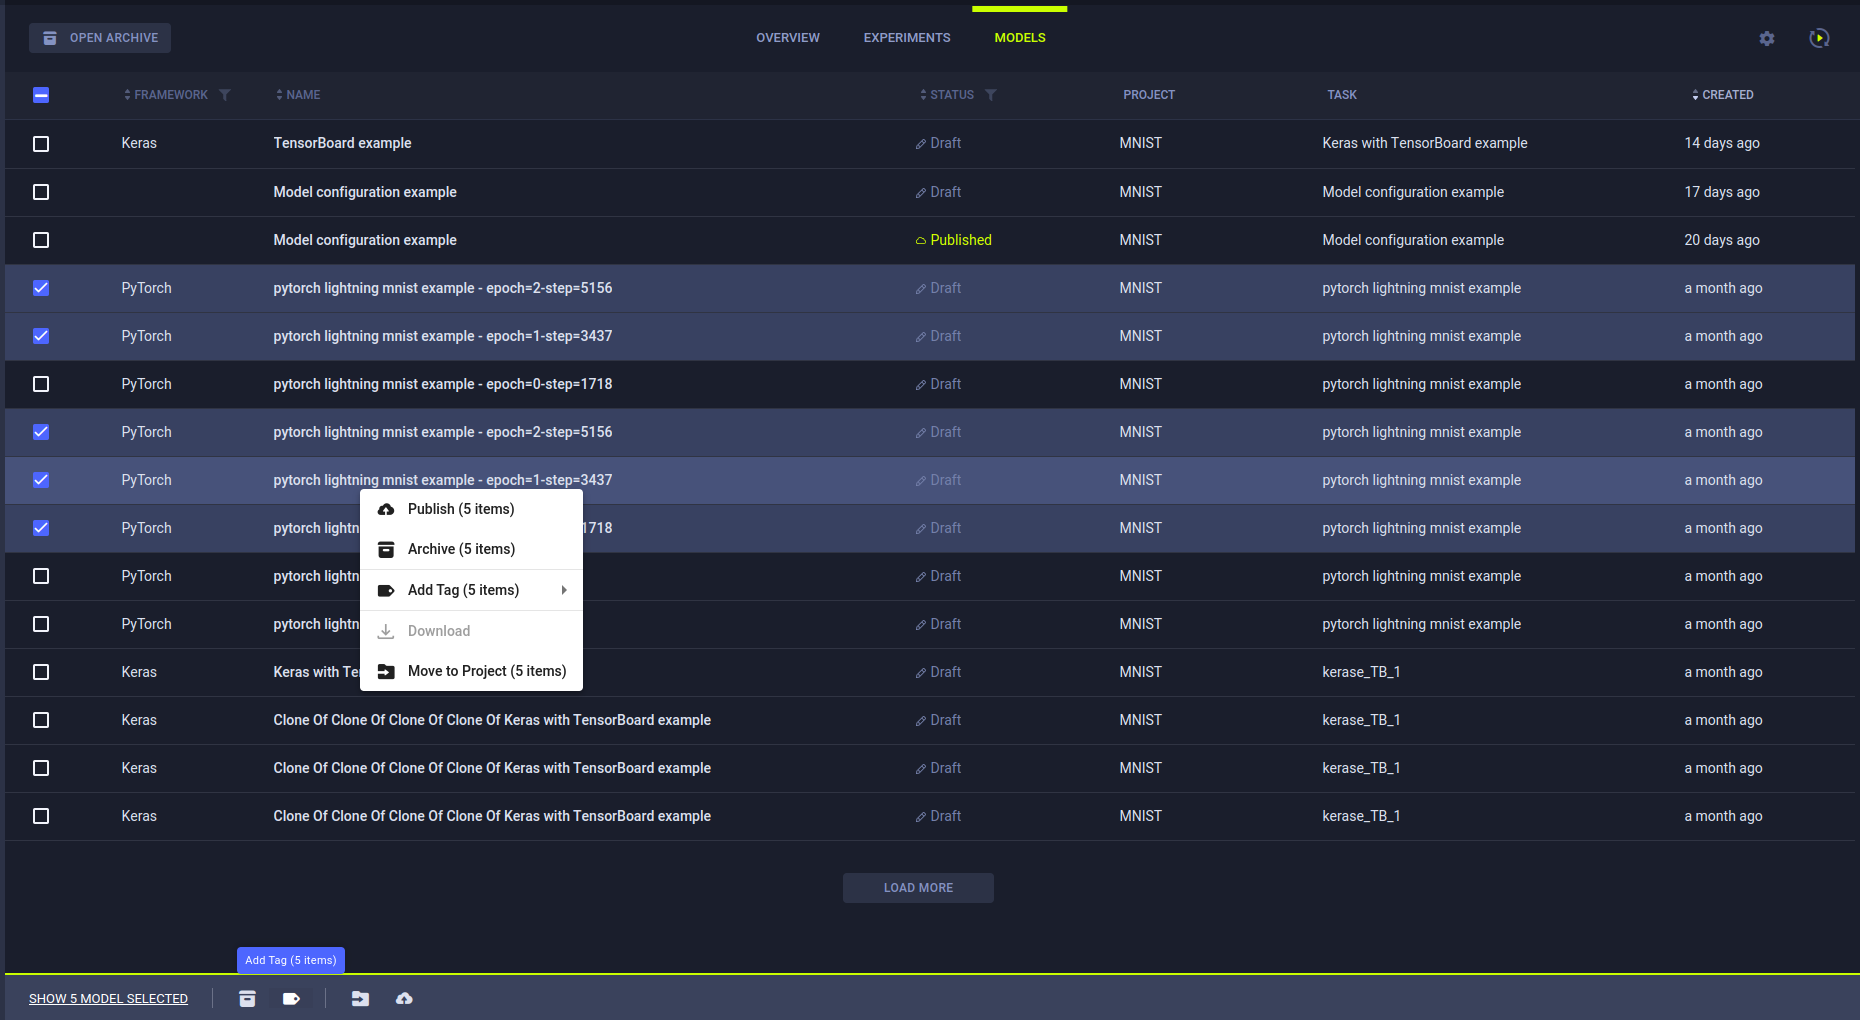
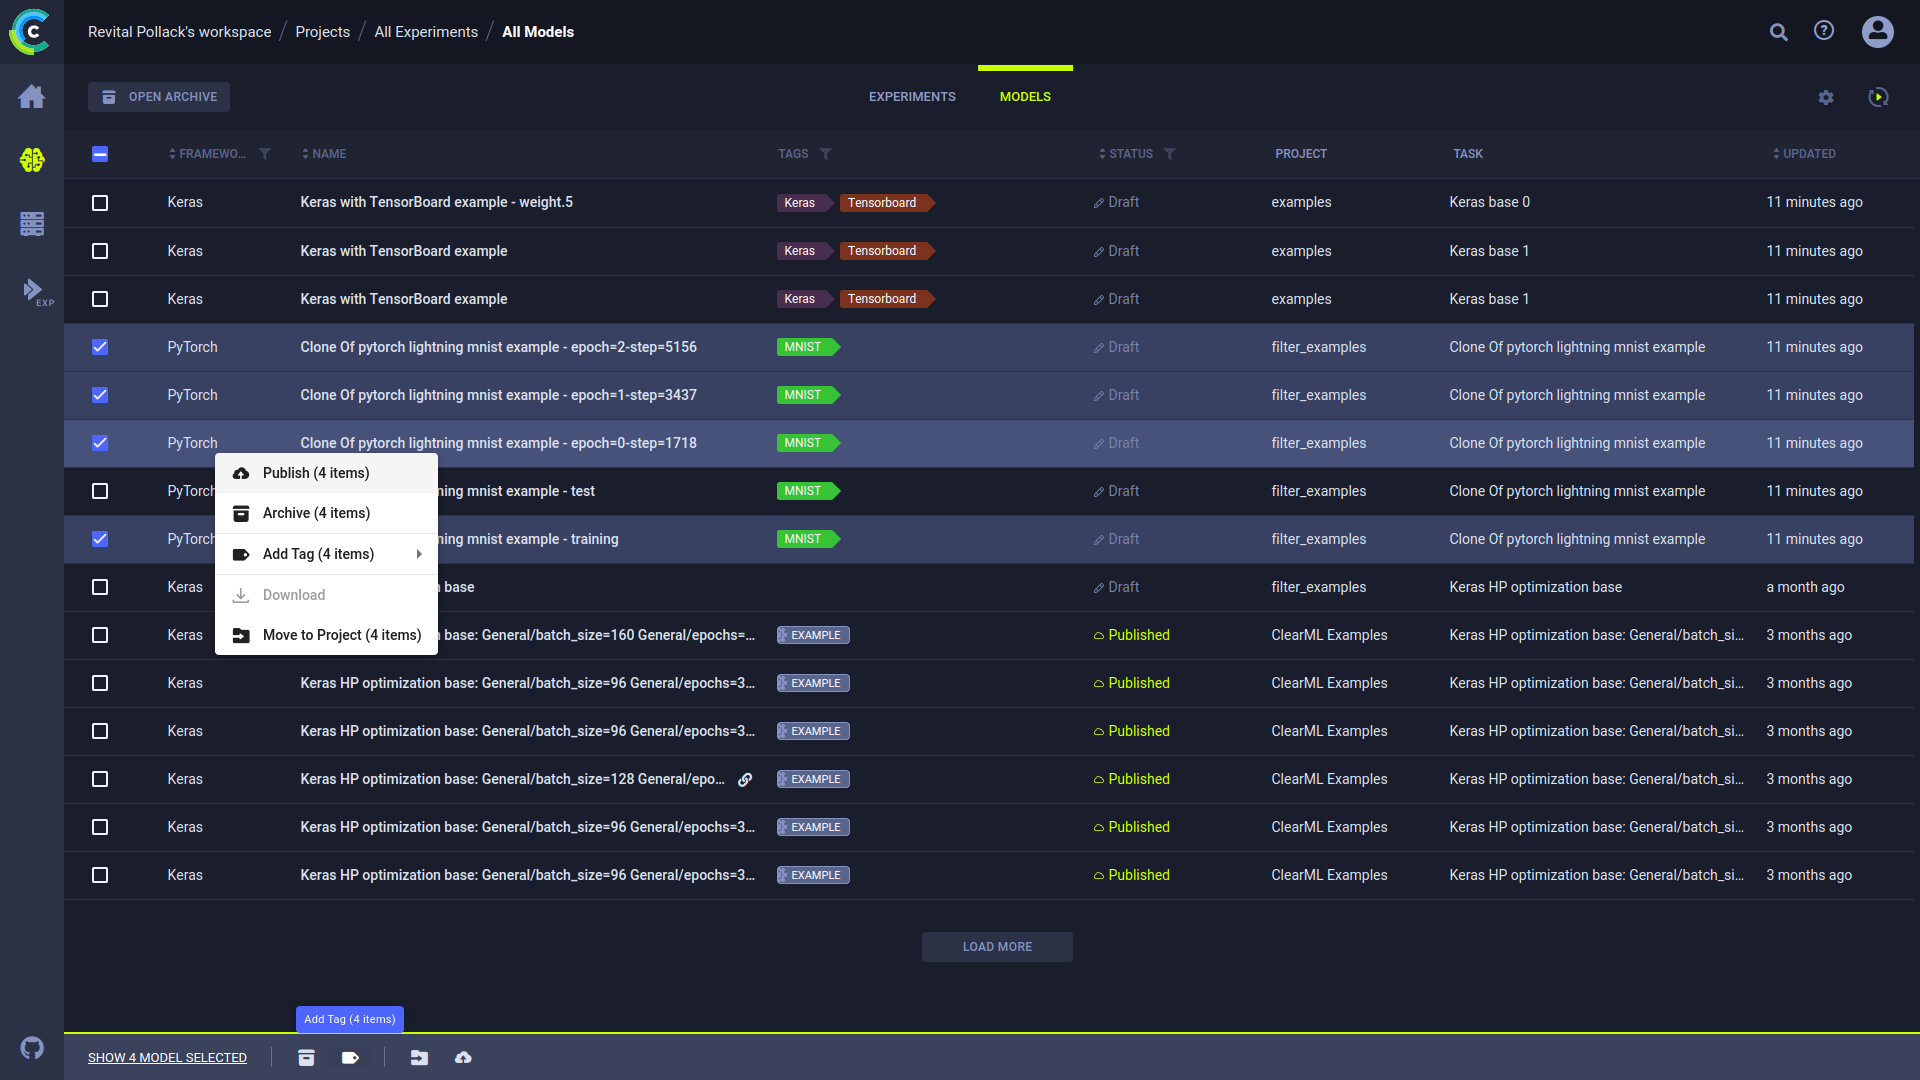
add model column, switch pics

diff --git a/docs/webapp/webapp_model_table.md b/docs/webapp/webapp_model_table.md
@@ -20,7 +20,7 @@ The models table contains the following columns:
 | **PROJECT** | The project with which the model is associated.| Default |
 | **USER** | The user who ran the experiment that created the model, or the user who imported the model.| Default |
 | **TASK** | The experiment (Task) name that created the model. | Default |
-| **STARTED** | Elapsed time since the model was updated. Hover over the elapsed time to view the date and time.| Default |
+| **UPDATED** | Elapsed time since the model was updated. Hover over the elapsed time to view the date and time.| Default |
 | **DESCRIPTION** | The model description. | Default (hidden) |
 
 
